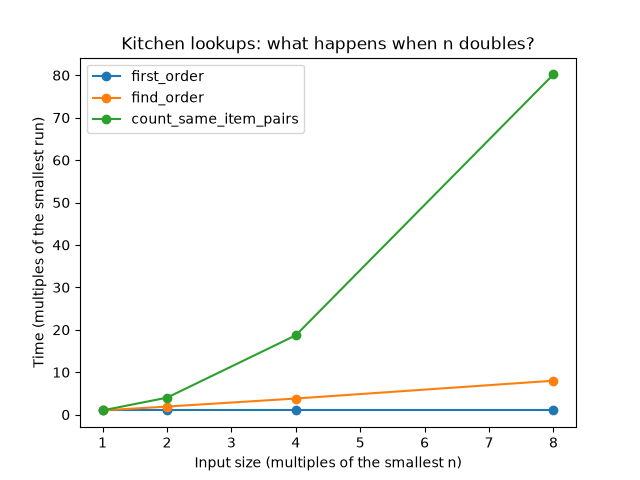
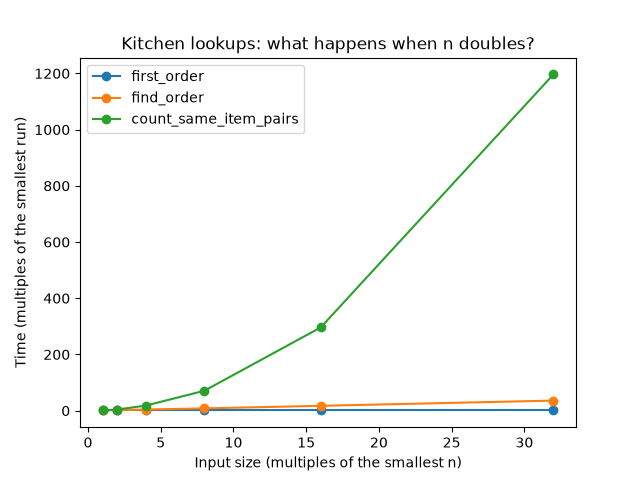
Week 10: updated growth plot

diff --git a/kitchen/growth.py b/kitchen/growth.py
@@ -6,7 +6,7 @@ from kitchen.lookup import count_same_item_pairs, find_order, first_order
 from kitchen.orders import make_orders
 from kitchen.timing import best_time, growth_factors
 
-MULTIPLIERS = [1, 2, 4, 8]
+MULTIPLIERS = [1, 2, 4, 8, 16, 32]
 
 
 def time_first(n: int) -> float:
